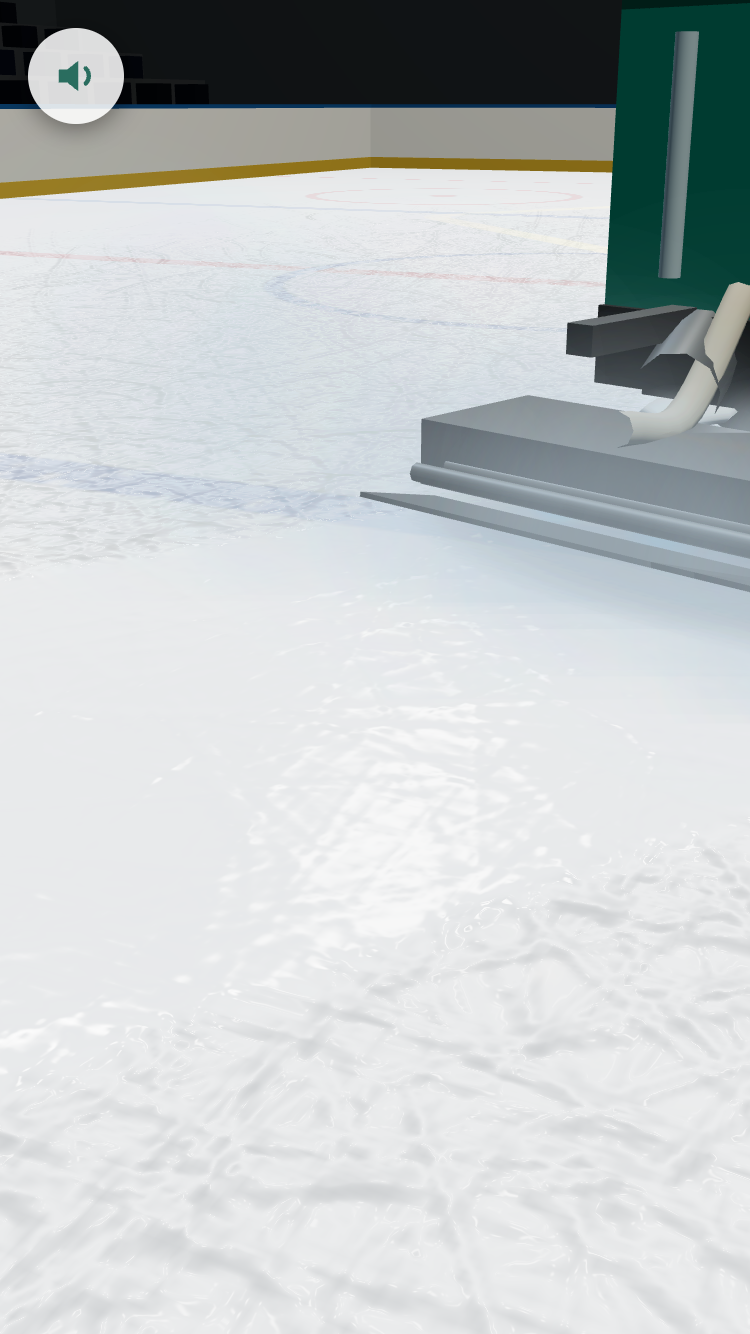
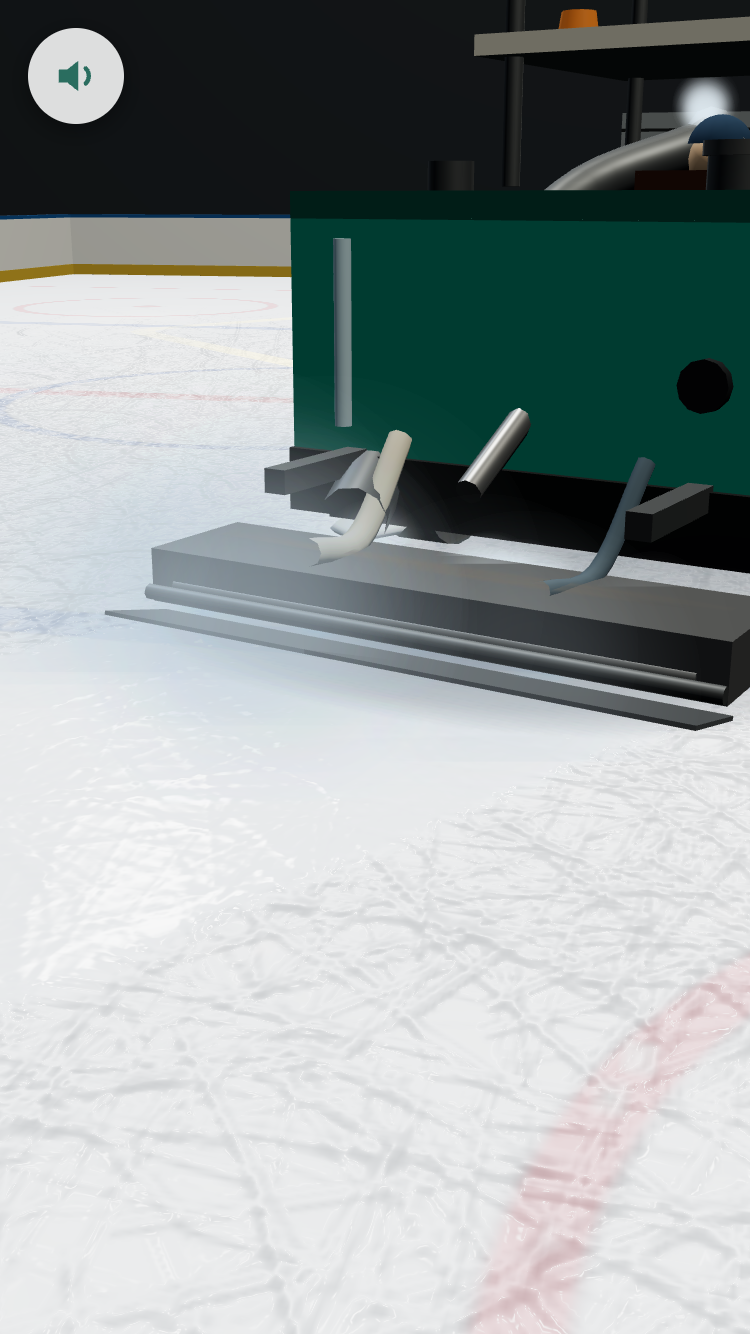
テストの撮影タイミング改善とストローク↔帯の証拠画像スクリプトを追加
Claude-Session: https://claude.ai/code/session_013BM31eNDs4Rf4DdwNqoCaz

diff --git a/src/game.js b/src/game.js
@@ -621,6 +621,7 @@ export class Game {
     return {
       version: 1,
       phase: () => this.phase,
+      introT: () => this.introT,
       skipIntro: () => this.skipIntro(),
       reset: () => this.fullReset(),
       setTimeScale: (s) => { this.timeScale = Math.max(0.25, Math.min(5, s)); },
